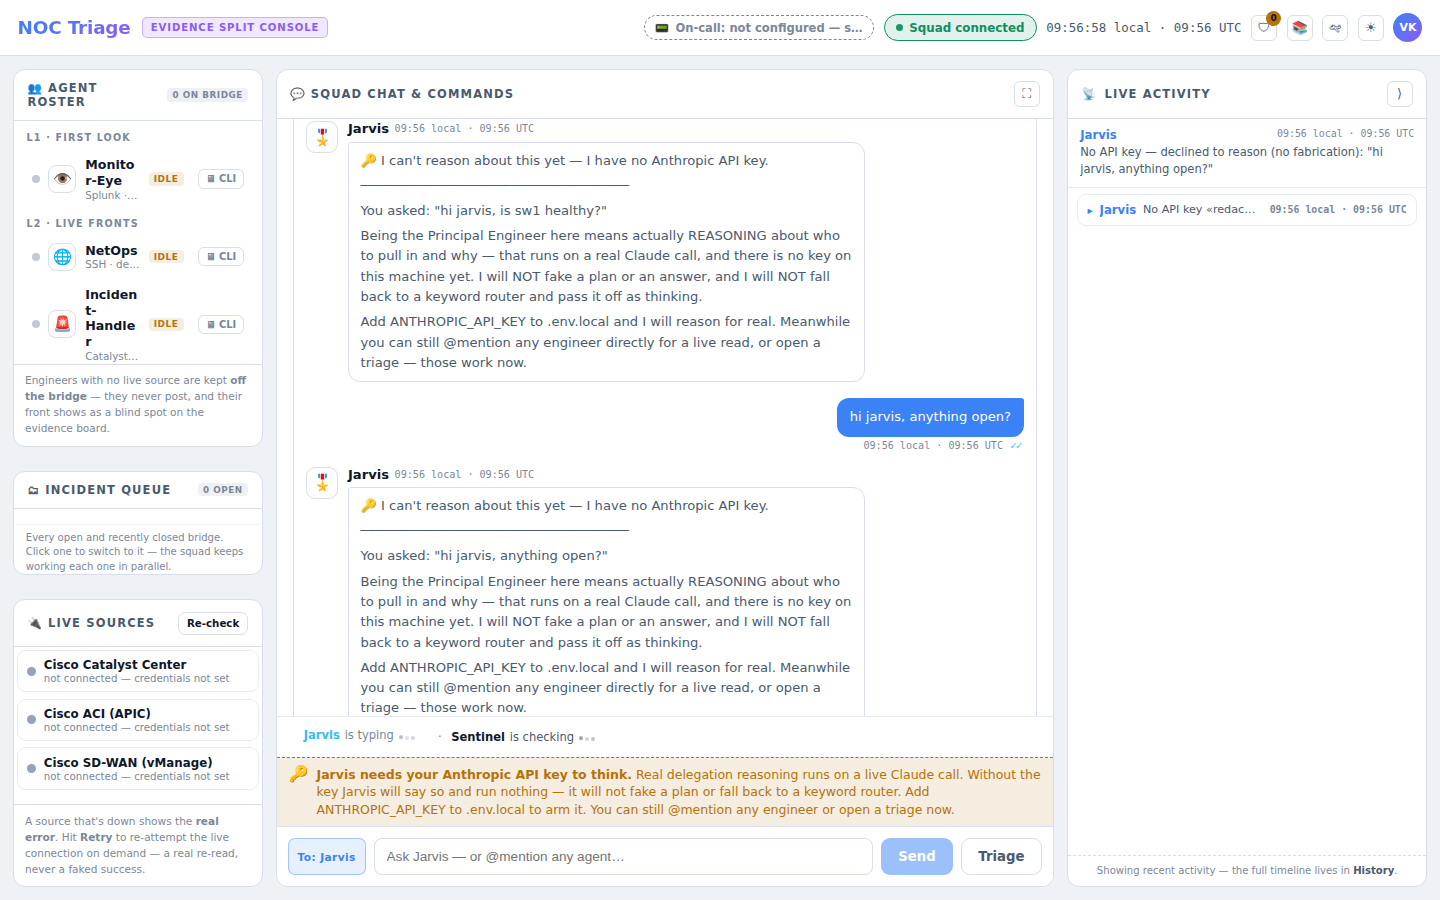
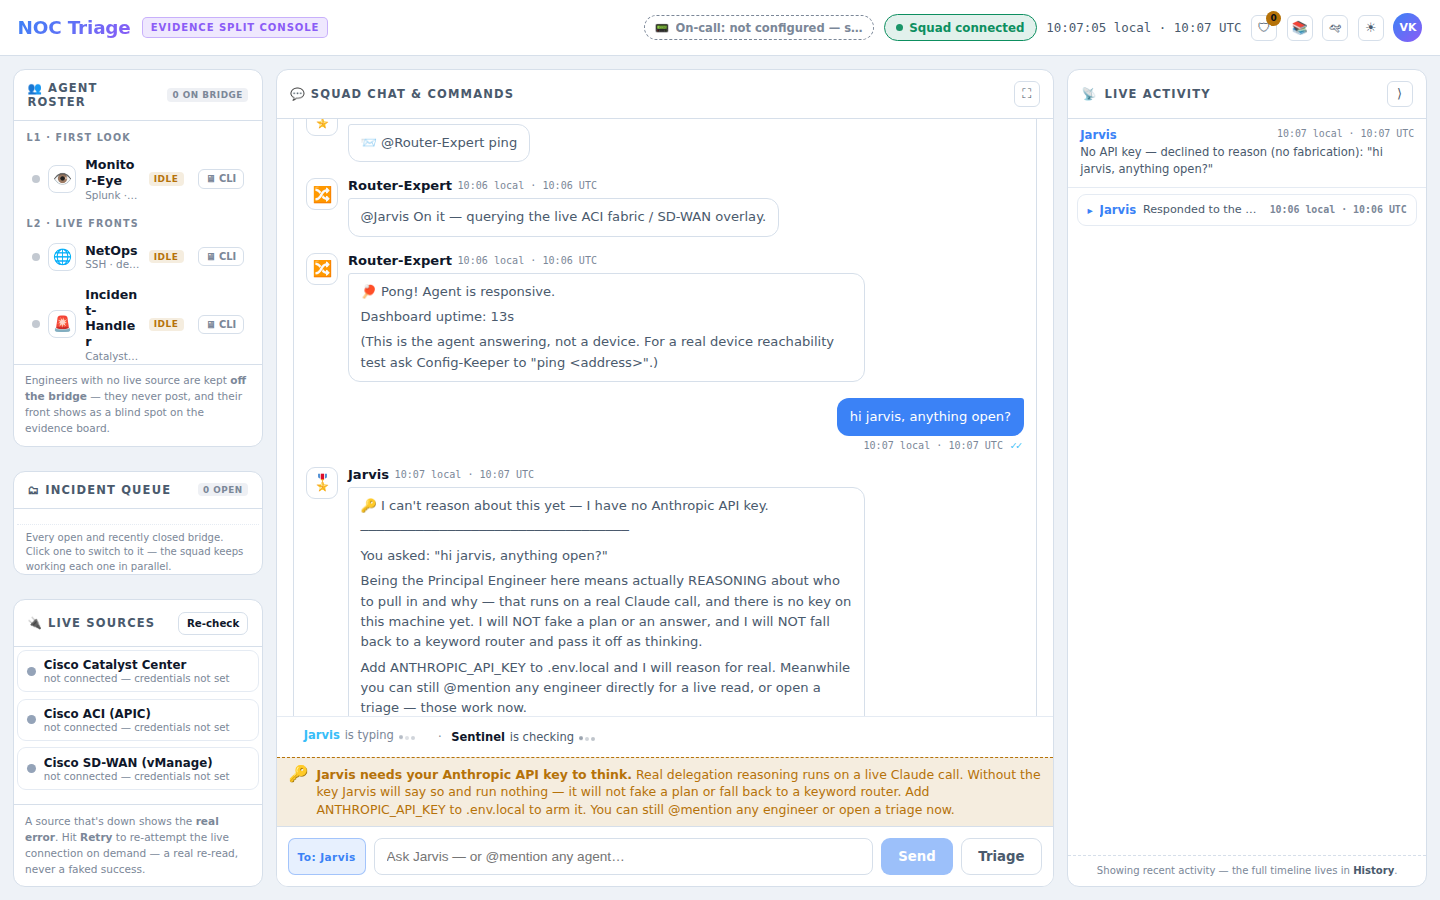
CW-12 review round 2: settle fails closed; every handler path returns a promise resolved after its last reply
- server.js: settle() emits nothing for a non-thenable; ping/help resolve inside
  their timer; maybeForget + write refusals wrapped; resumeClarification's
  promise returned.
- live-agents.js: resumeClarification/pickCandidate return the read's promise,
  say-only branches a resolved one; handle() wraps sync honest replies.
- Receipt wording 'Replied — asked you a question'; not-sent/replied survive
  reload; dev hooks null-safe. Tests 66 + 116; browser ping-timeline proof.

Claude-Session: https://claude.ai/code/session_014ZjE67CB2m32VWwJETiM5q

diff --git a/server.js b/server.js
@@ -1620,8 +1620,17 @@ function handleCommandInner(data) {
   });
   // simulateAgentAction already reports a failure to the operator (honest line
   // in chat); here only the receipt's colour follows the outcome.
-  const settle = (result, actorId) => Promise.resolve(result)
-    .then(() => answered(actorId, 'done'), () => answered(actorId, 'error'));
+  // FAIL CLOSED (review round 2): only a THENABLE is trusted to mean "finished
+  // when it settles". A handler that returns nothing while its reply is still
+  // on a timer would otherwise get an "answered" receipt before the answer
+  // exists — so a non-thenable emits NO receipt at all, never 'done'. The rule
+  // for every handler path is therefore: return a promise that resolves after
+  // its LAST reply is broadcast (see simulatePing / showAgentHelp / live.handle
+  // / resumeClarification).
+  const settle = (result, actorId) => {
+    if (!result || typeof result.then !== 'function') return;
+    result.then(() => answered(actorId, 'done'), () => answered(actorId, 'error'));
+  };
 
   // An @mention nobody answers to is a typo, not a task. Say so and stop —
   // creating live work against real kit for a name that does not exist is the
@@ -1913,8 +1922,12 @@ function runAgentAction(agentId, command) {
   // the command they already typed. Checked here, before every other route, so
   // BOTH surfaces inherit it: Jarvis and a direct @mention. It returns false for
   // anything that is not an answer, and that message routes normally as before.
-  if (live.maybeForget(agentId, command)) return;
-  if (live.resumeClarification(agentId, command)) return;
+  // CW-12: each of these replies synchronously (maybeForget) or returns the
+  // read's own promise (resumeClarification) — so the answered receipt fires
+  // after the reply, never before. A plain `true` here would fail closed.
+  if (live.maybeForget(agentId, command)) return Promise.resolve(true);
+  const resumed = live.resumeClarification(agentId, command);
+  if (resumed) return resumed;
 
   updateAgentStatus(agentId, 'active', `Processing: ${command}`);
 
@@ -1961,7 +1974,7 @@ function runAgentAction(agentId, command) {
     // sink every refused write passes through. Logging it here as well would
     // double-count this branch while the other refusal paths still logged
     // nothing, which is exactly the hole this move closes.
-    return live.refuseWrite(agentId, command, writeIntent);
+    return Promise.resolve(live.refuseWrite(agentId, command, writeIntent));   // the refusal IS the reply (sync)
   }
 
   // Jarvis keeps its squad-coordination intents (standup, roll call, triage);
@@ -1972,7 +1985,7 @@ function runAgentAction(agentId, command) {
 
   switch (intent) {
     // Read-only is enforced before anything reaches a device.
-    case 'configure_device': return live.refuseWrite(agentId, command);
+    case 'configure_device': return Promise.resolve(live.refuseWrite(agentId, command));
     case 'ping':             return simulatePing(agentId);
     case 'help':             return showAgentHelp(agentId);
     default:                 return live.handle(agentId, command);
@@ -1989,7 +2002,9 @@ function simulatePing(agentId) {
 
   addTaskToBoard('inProgress', { title: taskTitle, agent: agent.name });
 
-  setTimeout(() => {
+  // CW-12: resolves AFTER the reply is broadcast, so the answered receipt can
+  // never precede the Pong.
+  return new Promise((resolve) => setTimeout(() => {
     broadcast('chat_message', {
       type: 'incoming',
       agent: agentId,
@@ -2000,7 +2015,8 @@ function simulatePing(agentId) {
     });
     updateAgentStatus(agentId, 'idle', 'Ping responded');
     moveTaskOnBoard(taskTitle, 'inProgress', 'done');
-  }, 500);
+    resolve(true);
+  }, 500));
 }
 
 // Show agent help.
@@ -2024,7 +2040,8 @@ function showAgentHelp(agentId) {
         `Read-only is enforced in code (sources/guardrails.js), not by convention.`
       : `I have no live data source mapped, so I will report "not connected" rather than guess.`;
 
-  setTimeout(() => {
+  // CW-12: resolves AFTER the reply is broadcast (see simulatePing).
+  return new Promise((resolve) => setTimeout(() => {
     broadcast('chat_message', {
       type: 'incoming',
       agent: agentId,
@@ -2034,7 +2051,8 @@ function showAgentHelp(agentId) {
       timestamp: new Date().toISOString()
     });
     updateAgentStatus(agentId, 'idle', 'Help displayed');
-  }, 500);
+    resolve(true);
+  }, 500));
 }
 
 // Main Jarvis entry point.

diff --git a/sources/presence.cw12.test.js b/sources/presence.cw12.test.js
@@ -239,9 +239,24 @@ console.log('\nCW-12 backend — presence is a mirror of real work, never a gues
     ok('the receipt fires right before the handler runs (never on enqueue)',
       /pickedUp\(agent\);\s*\n\s*settle\(simulateAgentAction\(agent, command\), agent\)/.test(server) && /pickedUp\(targetId\);\s*\n\s*settle\(simulateAgentAction\(targetId, mentionMessage\), targetId\)/.test(server));
     ok('ANSWERED is sent from the one seam that owns the request end (handler promise settled), never inferred',
-      /const settle = \(result, actorId\) => Promise\.resolve\(result\)\s*\n\s*\.then\(\(\) => answered\(actorId, 'done'\), \(\) => answered\(actorId, 'error'\)\)/.test(server)
+      /const settle = \(result, actorId\) => \{\s*\n\s*if \(!result \|\| typeof result\.then !== 'function'\) return;\s*\n\s*result\.then\(\(\) => answered\(actorId, 'done'\), \(\) => answered\(actorId, 'error'\)\);/.test(server)
       && /livePresence\.answered\(/.test(server));
     ok('the unknown-@mention refusal is itself the answer', /Unknown @mention refused[\s\S]{0,120}answered\(agent, 'done'\)/.test(server));
+    // review round 2: the seam FAILS CLOSED, and every handler path returns a promise that resolves after its last reply
+    ok('settle() fails closed: a non-thenable result emits NO answered receipt', /if \(!result \|\| typeof result\.then !== 'function'\) return;/.test(server));
+    ok('ping and help resolve AFTER their delayed reply', (server.match(/return new Promise\(\(resolve\) => setTimeout\(\(\) => \{/g) || []).length === 2
+      && /moveTaskOnBoard\(taskTitle, 'inProgress', 'done'\);\s*\n\s*resolve\(true\);/.test(server) && /'Help displayed'\);\s*\n\s*resolve\(true\);/.test(server));
+    ok('maybeForget (sync reply) and resumeClarification (the read\'s promise) both hand a thenable back',
+      /if \(live\.maybeForget\(agentId, command\)\) return Promise\.resolve\(true\);/.test(server) && /const resumed = live\.resumeClarification\(agentId, command\);\s*\n\s*if \(resumed\) return resumed;/.test(server));
+    ok('write refusals (sync) are wrapped so the refusal counts as the reply', (server.match(/Promise\.resolve\(live\.refuseWrite\(/g) || []).length === 2);
+    const la = fs.readFileSync(path.join(__dirname, 'live-agents.js'), 'utf8');
+    ok('resumeClarification returns the read\'s promise for a pick / "all", and a resolved promise after a sync line',
+      /return configKeeper\(p\.agentId, p\.request, \{ allDevices: true \}\)/.test(la) && /return configKeeper\(p\.agentId, p\.request, \{ device: c\.hostname \}\)/.test(la)
+      && (la.match(/return Promise\.resolve\(true\);   \/\/ the line above IS the reply/g) || []).length === 2);
+    ok('live.handle wraps its synchronous honest replies (not connected / cannot answer)', (la.match(/Promise\.resolve\((notConnected|cannotAnswer)\(/g) || []).length === 3);
+    // functional: every runAgentAction-style return is a thenable or false
+    const live = require('./live-agents');
+    ok('maybeForget still returns false for a non-forget message (route continues)', live.maybeForget('netops', 'show version on sw1') === false);
     ok('the outgoing echo carries the clientMessageId the page sent', /type: 'outgoing',[\s\S]{0,200}clientMessageId: cmid/.test(server));
     ok('the client id is bounded at the boundary', /clientMessageId\.trim\(\)\.slice\(0, 96\)/.test(server));
     ok('the init snapshot carries live presence (and nothing is persisted)', /presence: livePresence\.snapshot\(\)/.test(server)

diff --git a/sources/desk.cw12.ui.test.js b/sources/desk.cw12.ui.test.js
@@ -145,7 +145,7 @@ console.log('\nCW-12 UI — presence mirrors real work, receipts are facts:\n');
   ok('receipt html: sent is one tick', /class="cw12-rcpt sent"/.test(CW9B.receiptHtml('sent')) && /✓<\/span>/.test(CW9B.receiptHtml('sent')) && !/✓✓/.test(CW9B.receiptHtml('sent')));
   ok('picked-up is two ticks', /class="cw12-rcpt picked-up"/.test(CW9B.receiptHtml('picked-up')) && /✓✓/.test(CW9B.receiptHtml('picked-up')));
   ok('answered is two ticks with its own class', /class="cw12-rcpt answered"/.test(CW9B.receiptHtml('answered', 'Jarvis')) && /Answered by Jarvis/.test(CW9B.receiptHtml('answered', 'Jarvis')));
-  ok('replied (ended on a narrowing question) says it is the operator\'s turn', /class="cw12-rcpt replied"/.test(CW9B.receiptHtml('replied')) && /needs your answer/.test(CW9B.receiptHtml('replied')));
+  ok('replied (ended on a narrowing question) says it is the operator\'s turn', /class="cw12-rcpt replied"/.test(CW9B.receiptHtml('replied')) && /asked you a question/.test(CW9B.receiptHtml('replied')));
   ok('not-sent is a cross, in words "Not sent"', /class="cw12-rcpt not-sent"/.test(CW9B.receiptHtml('not-sent')) && /✕/.test(CW9B.receiptHtml('not-sent')) && /Not sent/.test(CW9B.receiptHtml('not-sent')));
   ok('an unknown state degrades to sent, never to a made-up state', /cw12-rcpt sent/.test(CW9B.receiptHtml('read')));
   ok('there is NO "read" receipt — nobody reads, so we do not claim it', !Object.prototype.hasOwnProperty.call(CW9B.RECEIPTS, 'read') && !/Seen|Read/.test(CW9B.receiptHtml('answered')));
@@ -257,7 +257,7 @@ console.log('\nCW-12 UI — presence mirrors real work, receipts are facts:\n');
   ok('desk: the CW-9 resume route gets NO tick (we cannot track it honestly)', !/cw12Tag\(meNode\)[\s\S]{0,200}api\(safe\.url/.test(desk));
   ok('desk: a refused or unreachable send turns the SENT tick into NOT SENT', (desk.match(/receiptMark\(cmid, 'not-sent'\)/g) || []).length === 2);
   ok('classic: only ids THIS page minted get ticks (another operator\'s echo / history gets none)', /CW12_MINTED\[id\] = true/.test(idx) && /if\(cmid && !CW12_MINTED\[cmid\]\) cmid = '';/.test(idx));
-  ok('desk: restored ticks that are not ANSWERED are removed (a restored "sent" implies an answer is coming)', /cw12SweepRestoredReceipts\(\);/.test(desk) && /\.cw12-rcpt:not\(\.answered\)/.test(desk));
+  ok('desk: restored SENT / PICKED-UP ticks are removed (they imply an answer is coming); answered / replied / not-sent stay', /cw12SweepRestoredReceipts\(\);/.test(desk) && /\.cw12-rcpt:not\(\.answered\):not\(\.replied\):not\(\.not-sent\)/.test(desk));
   ok('desk: every chat message is noted BEFORE the outgoing early-return', /function onChat\(d\)\{\n  cw12NoteChat\(d\);\n  if\(d && d\.type === 'outgoing'\) return;/.test(desk));
   ok('classic: the echoed outgoing bubble is tagged from the server echo', /el\.setAttribute\('data-cmid', cmid\)/.test(idx) && /cmid \? CW9B\.receiptHtml\('sent'\) : ''/.test(idx));
   ok('classic: renderChat notes every message (history replay marks answered truthfully)', /function renderChat\(d\)\{\n  var host = \$\('chatStream'\); if\(!host\) return;\n  cw12NoteChat\(d\);/.test(idx));

diff --git a/sources/live-agents.js b/sources/live-agents.js
@@ -1094,8 +1094,9 @@ function resumeClarification(agentId, message) {
   // "all" → run it on every reachable box, each output labelled.
   if (wantsAllDevices(t)) {
     pendingChoice.delete(conversationId());
-    configKeeper(p.agentId, p.request, { allDevices: true });
-    return true;
+    // CW-12: the read's own promise is returned (truthy), so the caller's
+    // "answered" receipt waits for the read's last reply, not for this line.
+    return configKeeper(p.agentId, p.request, { allDevices: true });
   }
 
   // A name or a management IP from the list we just showed.
@@ -1117,7 +1118,7 @@ function resumeClarification(agentId, message) {
     say(p.agentId,
       `🤔 There is no option ${idx} — I listed ${cands.length}. I ran nothing.\n${RULE}\n` +
       `${cands.map(candidateLine).join('\n')}\n\nReply with a name, a number 1–${cands.length}, or "all".`);
-    return true;
+    return Promise.resolve(true);   // the line above IS the reply (sync) — CW-12
   }
 
   // Not an answer, but a whole new request (a full sentence — the command shape
@@ -1134,15 +1135,15 @@ function resumeClarification(agentId, message) {
     `${cands.map(candidateLine).join('\n')}\n\n` +
     `Reply with a name ("${cands[0] ? cands[0].hostname : 'sw1'}"), a number 1–${cands.length}, or "all". ` +
     `"${p.command}" is still waiting.`);
-  return true;
+  return Promise.resolve(true);   // the line above IS the reply (sync) — CW-12
 }
 
 function pickCandidate(p, c) {
   pendingChoice.delete(conversationId());
   rememberDevice(c.hostname);
   say(p.agentId, `👍 ${c.hostname} it is — running "${p.command}" there now. I will keep using ${c.hostname} for follow-ups until you name another.`);
-  configKeeper(p.agentId, p.request, { device: c.hostname });
-  return true;
+  // CW-12: return the read's promise so "answered" waits for its output.
+  return configKeeper(p.agentId, p.request, { device: c.hostname });
 }
 
 function escapeRe(s) { return String(s).replace(/[.*+?^${}()|[\]\\]/g, '\\$&'); }
@@ -2219,13 +2220,16 @@ function handle(agentId, command) {
   // still runs the destructive-intent check and the read-only guardrail inside,
   // so this opens no write path.
   if (isDeviceCliRequest(command)) return runDeviceCli(agentId, command);
-  if (NO_BACKEND[agentId]) return notConnected(agentId);
+  // CW-12: the honest not-connected / cannot-answer lines are synchronous
+  // replies — wrapped so the caller's answered receipt follows them (a bare
+  // undefined would fail closed and the operator's bubble would never tick).
+  if (NO_BACKEND[agentId]) return Promise.resolve(notConnected(agentId));
   const fn = HANDLERS[agentId];
-  if (!fn) return notConnected(agentId);
+  if (!fn) return Promise.resolve(notConnected(agentId));
   // Config-Keeper gates itself: it must find a real read command in the text.
   if (agentId !== 'config-keeper') {
     const verdict = canAnswer(agentId, command);
-    if (!verdict.ok) return cannotAnswer(agentId, command, verdict);
+    if (!verdict.ok) return Promise.resolve(cannotAnswer(agentId, command, verdict));
   }
   return fn(agentId, command);
 }

diff --git a/public/desk.html b/public/desk.html
@@ -1363,19 +1363,19 @@ function cw12Seed(list){ if(!PRES) return; try{ PRES.seed(list); }catch(e){} pre
 /* The socket dropped: we no longer know what is in flight, so we show nothing
    — the reconnect's init snapshot brings back whatever is still real. */
 function cw12Drop(){ if(!PRES) return; try{ if(PRES.clear()) presenceRender(); }catch(e){} }
-/* A restored transcript may carry ticks from before the reload. ANSWERED is a
-   fact that stays true; SENT / PICKED-UP are claims about an answer we can no
-   longer track from this page, so they are removed rather than left implying
-   something is still coming. */
+/* A restored transcript may carry ticks from before the reload. ANSWERED,
+   REPLIED and NOT SENT are facts that stay true; SENT / PICKED-UP are claims
+   about an answer we can no longer track from this page, so they are removed
+   rather than left implying something is still coming. */
 function cw12SweepRestoredReceipts(){
   var host = $('chat'); if(!host) return;
-  var stale = host.querySelectorAll('.cw12-rcpt:not(.answered)');
+  var stale = host.querySelectorAll('.cw12-rcpt:not(.answered):not(.replied):not(.not-sent)');
   for(var i = 0; i < stale.length; i++) stale[i].parentNode.removeChild(stale[i]);
 }
 /* DEV/TEST ONLY — nothing in the app calls these. Fixture: test/cw12-fixture.js */
 window.__cw12DevPresence = function(d){ return onPresence(d); };
 window.__cw12DevSend = function(text){ var n = meMsg(text); return cw12Tag(n); };
-window.__cw12DevChat = function(msg){ return onChat(msg); };
+window.__cw12DevChat = function(msg){ return msg ? onChat(msg) : false; };
 window.__cw12DevDrop = function(){ return cw12Drop(); };
 window.__cw12DevSeed = function(list){ return cw12Seed(list); };
 

diff --git a/public/cw9-bridge.js b/public/cw9-bridge.js
@@ -1179,8 +1179,9 @@
      'not-sent' = the server refused it or could not be reached; 'picked-up' =
      the server said an actor started on it; 'answered' = the server said the
      handler for it FINISHED, and at least one reply for it has been painted;
-     'replied' = it finished but the last reply was Jarvis's narrowing question,
-     so it is the operator's turn, not an answer. NEVER inferred from a reply
+     'replied' = it finished but the last reply was Jarvis's narrowing question
+     — a question back, not an answer (the operator's reply goes down its own
+     route, so this tick is final and worded as a fact, not an instruction). NEVER inferred from a reply
      alone — "let me think…", a roster, an agent's finding all carry the request
      id and none of them is an answer. There is no "read" — nobody reads. */
   var RECEIPTS = {
@@ -1188,7 +1189,7 @@
     'not-sent':  { ticks: '✕',  label: 'Not sent' },
     'picked-up': { ticks: '✓✓', label: 'Picked up' },
     answered:    { ticks: '✓✓', label: 'Answered' },
-    replied:     { ticks: '✓✓', label: 'Replied — needs your answer' },
+    replied:     { ticks: '✓✓', label: 'Replied — asked you a question' },
   };
   function receiptHtml(state, who) {
     var st = Object.prototype.hasOwnProperty.call(RECEIPTS, state) ? state : 'sent';

diff --git a/public/index.html b/public/index.html
@@ -3421,7 +3421,7 @@ function cw12Seed(list){ if(!PRES) return; try{ PRES.seed(list); }catch(e){} pre
 function cw12Drop(){ if(!PRES) return; try{ if(PRES.clear()) presenceRender(); }catch(e){} }
 /* DEV/TEST ONLY — nothing in the app calls these. Fixture: test/cw12-fixture.js */
 window.__cw12DevPresence = function(d){ return onPresence(d); };
-window.__cw12DevChat = function(msg){ return renderChat(msg); };
+window.__cw12DevChat = function(msg){ return msg ? renderChat(msg) : false; };
 window.__cw12DevDrop = function(){ return cw12Drop(); };
 window.__cw12DevSeed = function(list){ return cw12Seed(list); };
 

diff --git a/TRACKER.md b/TRACKER.md
@@ -746,3 +746,17 @@ return. Never fabricate. Fix the class. Update TRACKER + push every step. Master
 - Verified: 35 suites green (presence.cw12 59, desk.cw12.ui 116); browser 34/34 on :3123 incl. the
   reviewer's repros (interim reply → still picked-up; ask → replied; stranded stream settles on the
   recorded message); live 18/18 on :3124 (mock 401). Re-review requested.
+
+## 2026-09-05 — CW-12 review round 2: FIX-FIRST (1 HIGH residual, 3 LOW) → fixed
+- HIGH residual: `settle()` trusted any handler return; ping / help (reply on a timer) and the
+  clarification-resume path (fire-and-forget read) returned nothing, so "answered" fired ~480ms early.
+  FIX (class): settle FAILS CLOSED (non-thenable → no receipt, never 'done'); the rule "every handler path
+  returns a promise that resolves after its last reply" applied — ping/help return a Promise resolved
+  inside their timer, resumeClarification/pickCandidate return the read's own promise (say-only branches
+  return a resolved promise), maybeForget and write refusals wrapped at the call site, live.handle wraps
+  its sync not-connected/cannot-answer lines. Pinned in presence.cw12.test (66) + browser ping timeline
+  (answered never before the Pong, on screen and on the wire).
+- LOW: "Replied — asked you a question" (a fact, not an instruction; the resume route is separate).
+- LOW: NOT SENT / REPLIED survive a reload (facts); SENT / PICKED-UP still swept.
+- Info: dev hooks guard null. Pre-existing canned "On it — querying…" line noted for a Law-1 cleanup.
+- Verified: 35 suites exit 0; browser 37/37 (:3123) + 18/18 (:3124). Round-3 re-review requested.
